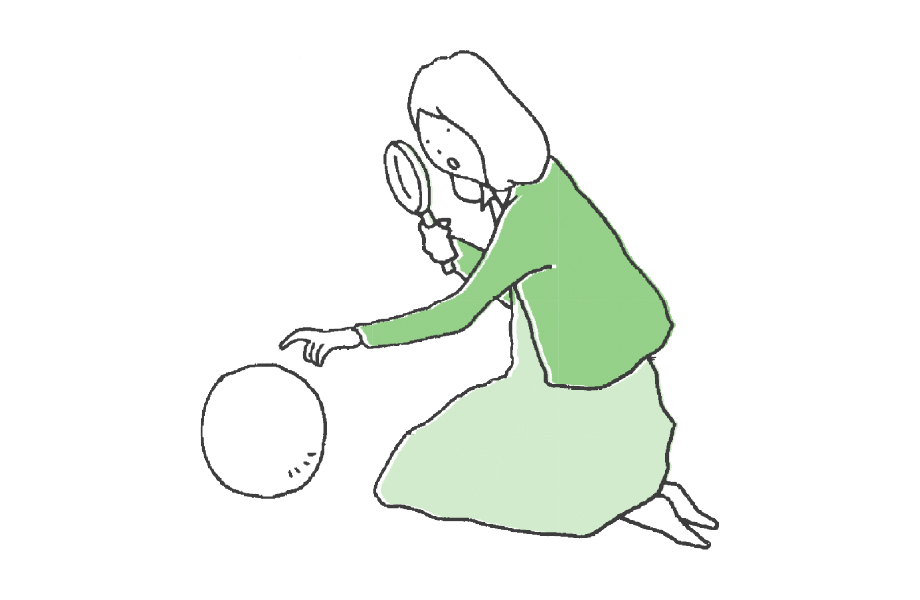
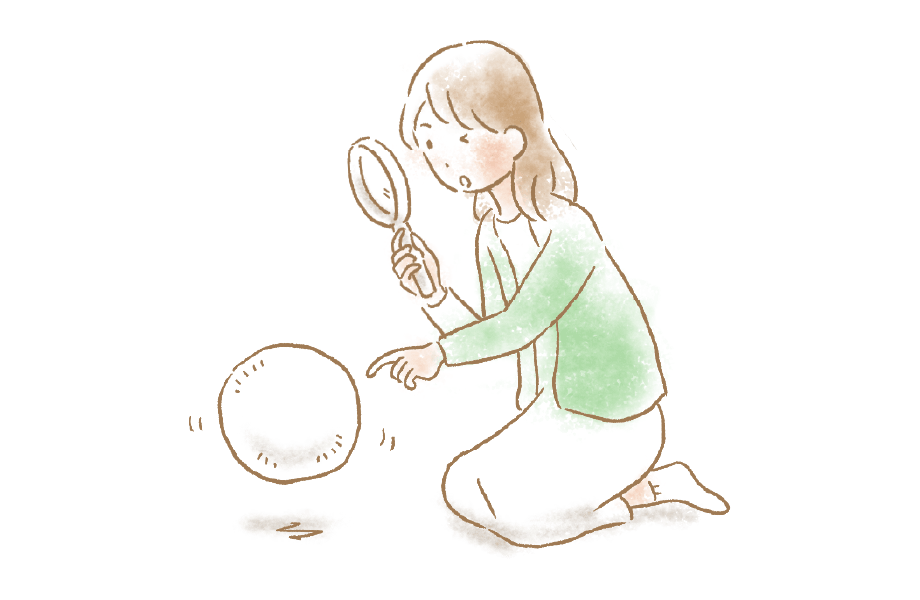
[update]画像置換
「サイトについて」「トラウマについて学ぶ」画面が対象

Changed region(s): [[0.213, 0.06, 0.7913, 0.93]]

diff --git a/assets/css/style.css b/assets/css/style.css
@@ -267,8 +267,10 @@ main {
   height: 6rem;
 }
 .p-hdr h1 {
-  color: #555555;
   font-size: 3.1rem;
+}
+.p-hdr h1 a {
+  color: #555555;
 }
 .p-hdr__btn {
   background: none;
@@ -593,8 +595,8 @@ main {
 .p-mv {
   display: -ms-grid;
   display: grid;
-  -ms-grid-columns: (1fr)[2];
-      grid-template-columns: repeat(2, 1fr);
+  -ms-grid-columns: auto 46%;
+      grid-template-columns: auto 46%;
   -ms-grid-rows: (auto)[3];
       grid-template-rows: repeat(3, auto);
   grid-template-areas: "tag img" "ttl img" "txt txt";
@@ -608,6 +610,10 @@ main {
   -ms-grid-rows: (auto)[2];
       grid-template-rows: repeat(2, auto);
   grid-template-areas: "ttl img" "txt txt";
+}
+.p-mv.-learn {
+  -ms-grid-columns: auto 35%;
+      grid-template-columns: auto 35%;
 }
 .p-mv__tag {
   grid-area: tag;
@@ -629,16 +635,16 @@ main {
   font-weight: bold;
   color: #806346;
   line-height: 1.2;
-  margin-top: 0.5rem;
+  margin-top: -1.5rem;
   font-size: 2rem;
 }
 .p-mv__ttl.-large {
-  margin-top: 3rem;
+  margin-top: 4rem;
   font-size: 2rem;
 }
 .p-mv__txt {
   grid-area: txt;
-  margin-top: 3rem;
+  margin-top: 1rem;
 }
 .p-mv__img {
   grid-area: img;
@@ -661,7 +667,7 @@ main {
 }
 
 .p-abt-intro {
-  padding: 2.5rem 0 3rem;
+  padding: 0rem 0 3rem;
   text-align: center;
 }
 .p-abt-intro__sec {
@@ -731,6 +737,7 @@ main {
 .p-abt-howto__list img {
   border-radius: 1rem;
   margin-bottom: 1.8rem;
+  background: #FAF6F0;
 }
 .p-abt-howto__list p {
   margin-top: 1.5rem;
@@ -765,6 +772,7 @@ main {
 .p-abt-common__list li img {
   border-radius: 1rem;
   margin-bottom: 1.5rem;
+  background: #fff;
 }
 .p-abt-common__btn {
   width: 26rem;
@@ -1261,6 +1269,7 @@ main {
         grid-template-rows: auto auto 1fr;
     grid-template-areas: "tag img" "ttl img" "txt img";
     padding: 0;
+    column-gap: 2rem;
     min-height: 33rem;
   }
   .p-mv.-parent-page{

diff --git a/assets/scss/_project.scss b/assets/scss/_project.scss
@@ -21,8 +21,11 @@
   }
 
   h1 {
-    color: $color_font;
     @include fontsize(31, 36);
+
+    a {
+      color: $color_font;
+    }
   }
 
   &__btn {
@@ -622,7 +625,7 @@
 
 .p-mv {
   display: grid;
-  grid-template-columns: repeat(2, 1fr);
+  grid-template-columns: auto 46%;
   grid-template-rows: repeat(3, auto);
   grid-template-areas: "tag img"
     "ttl img"
@@ -639,6 +642,7 @@
       "ttl img"
       "txt img";
     padding: 0;
+    column-gap: 2rem;
     min-height: 33rem;
   }
 
@@ -652,6 +656,10 @@
       grid-template-areas: "ttl img"
         "txt img";
     }
+  }
+
+  &.-learn {
+    grid-template-columns: auto 35%;
   }
 
   &__tag {
@@ -679,7 +687,7 @@
     font-weight: bold;
     color: $color_dark-brown;
     line-height: 1.2;
-    margin-top: 0.5rem;
+    margin-top: -1.5rem;
     @include fontsize(20, 30);
 
     @include media(tb) {
@@ -687,7 +695,7 @@
     }
 
     &.-large {
-      margin-top: 3rem;
+      margin-top: 4rem;
       @include fontsize(20, 36);
 
       @include media(tb) {
@@ -698,7 +706,7 @@
 
   &__txt {
     grid-area: txt;
-    margin-top: 3rem;
+    margin-top: 1rem;
 
     @include media(tb) {
       margin-top: 2rem;
@@ -728,7 +736,7 @@
 
 // abt = about
 .p-abt-intro {
-  padding: 2.5rem 0 3rem;
+  padding: 0rem 0 3rem;
   text-align: center;
 
   @include media(tb) {
@@ -861,6 +869,7 @@
     img {
       border-radius: 1rem;
       margin-bottom: 1.8rem;
+      background: $color_orange-gray;
     }
 
     p {
@@ -926,6 +935,7 @@
       img {
         border-radius: 1rem;
         margin-bottom: 1.5rem;
+        background: #fff;
       }
     }
   }

diff --git a/page-about.php b/page-about.php
@@ -58,17 +58,17 @@ get_template_part('template-parts/mainview');
 
   <ul class="p-abt-howto__list">
     <li>
-      <img src="<?php echo THEME_DIR_URI; ?>about/about-howto-01.jpg" alt="">
+      <img src="<?php echo THEME_DIR_URI; ?>about/about-common-01.png" alt="">
       <a href="./experienced-person" class="c-btn -circle-right">トラウマを<br>経験した方へ</a>
       <p>テキストが入りますテキストが入りますテキストが入りますテキストが入りますテキストが入りますテキストが入ります</p>
     </li>
     <li>
-      <img src="<?php echo THEME_DIR_URI; ?>about/about-howto-02.jpg" alt="">
+      <img src="<?php echo THEME_DIR_URI; ?>about/about-common-02.png" alt="">
       <a href="./family-friends" class="c-btn -circle-right">トラウマを経験した方の<br>ご家族やご友人へ</a>
       <p>テキストが入りますテキストが入りますテキストが入りますテキストが入りますテキストが入りますテキストが入ります</p>
     </li>
     <li>
-      <img src="<?php echo THEME_DIR_URI; ?>about/about-howto-03.jpg" alt="">
+      <img src="<?php echo THEME_DIR_URI; ?>about/about-common-03.png" alt="">
       <a href="/supporter" class="c-btn -circle-right">トラウマ経験者の<br>支援を行う方へ</a>
       <p>テキストが入りますテキストが入りますテキストが入りますテキストが入りますテキストが入りますテキストが入ります</p>
     </li>

diff --git a/template-parts/about-common-area.php b/template-parts/about-common-area.php
@@ -7,15 +7,15 @@
 
     <ul class="p-abt-common__list">
       <li>
-        <img src="<?php echo THEME_DIR_URI; ?>about/about-common-01.jpg" alt="">
+        <img src="<?php echo THEME_DIR_URI; ?>about/about-common-01.png" alt="">
         <a href="../experienced-person" class="c-btn -white -circle-right p-abt-common__btn">トラウマを<br>経験した方へ</a>
       </li>
       <li>
-        <img src="<?php echo THEME_DIR_URI; ?>about/about-common-02.jpg" alt="">
+        <img src="<?php echo THEME_DIR_URI; ?>about/about-common-02.png" alt="">
         <a href="../family-friends" class="c-btn -white -circle-right p-abt-common__btn">トラウマを経験した方の<br>ご家族やご友人へ</a>
       </li>
       <li>
-        <img src="<?php echo THEME_DIR_URI; ?>about/about-common-03.jpg" alt="">
+        <img src="<?php echo THEME_DIR_URI; ?>about/about-common-03.png" alt="">
         <a href="../supporter" class="c-btn -white -circle-right p-abt-common__btn">トラウマ経験者の<br>支援を行う方へ</a>
       </li>
     </ul>

diff --git a/template-parts/mainview.php b/template-parts/mainview.php
@@ -54,7 +54,11 @@ if (is_page('about')) {
 <div class="l-base p-mv
   <?php if ($is_parent_page) {
     echo '-parent-page';
-  } ?>">
+  } ?>
+  <?php if (is_page('learn') || is_parent_slug() == 'learn') {
+    echo ' -learn';
+  } ?>
+  ">
   <?php if ($tag): ?>
     <span class="p-mv__tag"><?php echo $tag; ?></span>
   <?php endif ?>

diff --git a/header.php b/header.php
@@ -14,7 +14,7 @@
   <?php wp_body_open(); ?>
   <header class="p-hdr">
     <div class="l-wide p-hdr__inner">
-      <h1>CPT</h1>
+      <h1><a href="<?php echo home_url(); ?>">CPT</a></h1>
 
       <button class="p-hdr__btn js-gnav-toggle"></button>
 

diff --git a/footer.php b/footer.php
@@ -4,7 +4,7 @@
 	<div class="l-wide">
 		<div class="p-ftr">
 
-			<h2 class="p-ftr__h1"><a href="">CPT</a></h2>
+			<h2 class="p-ftr__h1"><a href="<?php echo home_url(); ?>">CPT</a></h2>
 
 			<dl class=" p-ftr__list-01">
 				<dd>
